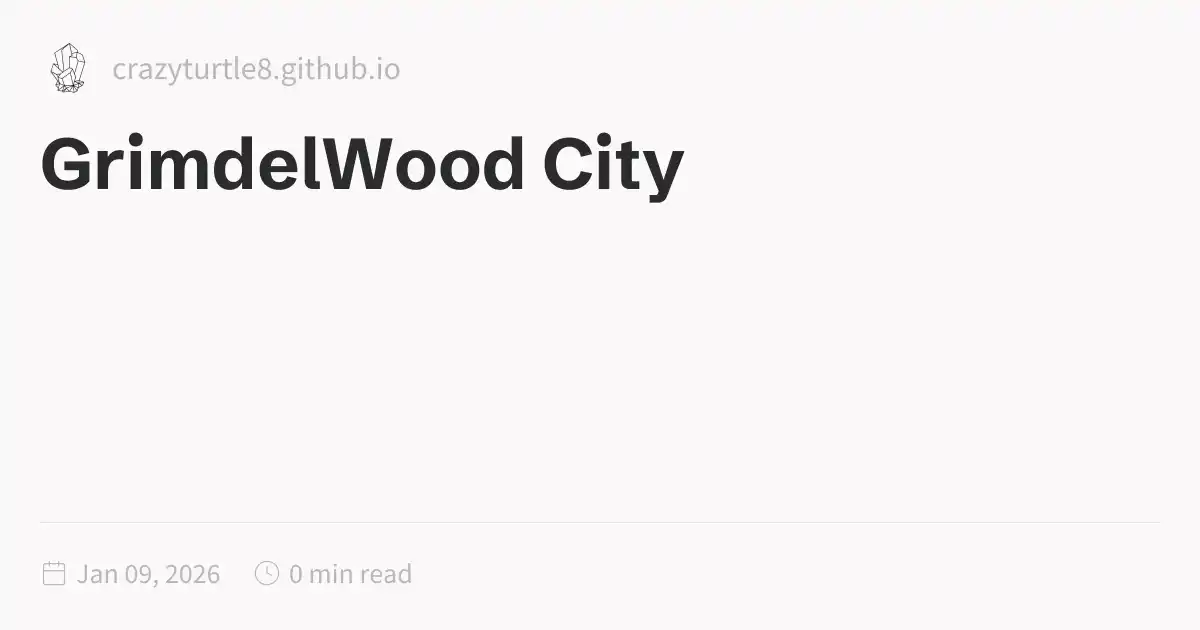
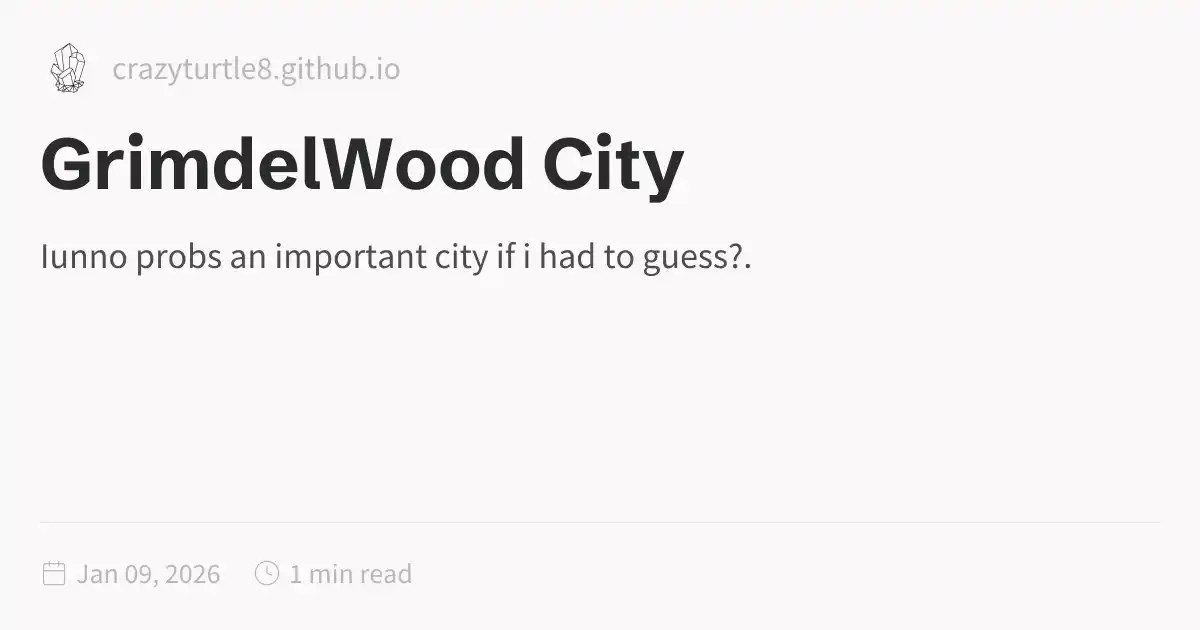
Update 2026-01-09

Changed region(s): [[0.0308, 0.3921, 0.6167, 0.4524]]

diff --git a/DnD/CAMPAIN/World/Country/Cities--and--Towns/GrimdelWood-City.html b/DnD/CAMPAIN/World/Country/Cities--and--Towns/GrimdelWood-City.html
@@ -1,5 +1,5 @@
 <!DOCTYPE html>
-<html lang="en" dir="ltr"><head><title>GrimdelWood City</title><meta charset="utf-8"/><link rel="preconnect" href="https://fonts.googleapis.com"/><link rel="preconnect" href="https://fonts.gstatic.com"/><link rel="stylesheet" href="https://fonts.googleapis.com/css2?family=Schibsted Grotesk:wght@400;700&amp;family=Source Sans Pro:ital,wght@0,400;0,600;1,400;1,600&amp;family=IBM Plex Mono:wght@400;600&amp;display=swap"/><link rel="preconnect" href="https://cdnjs.cloudflare.com" crossorigin="anonymous"/><meta name="viewport" content="width=device-width, initial-scale=1.0"/><meta name="og:site_name" content="Quartz 4"/><meta property="og:title" content="GrimdelWood City"/><meta property="og:type" content="website"/><meta name="twitter:card" content="summary_large_image"/><meta name="twitter:title" content="GrimdelWood City"/><meta name="twitter:description" content/><meta property="og:description" content/><meta property="og:image:alt" content/><meta property="twitter:domain" content="crazyturtle8.github.io"/><meta property="og:url" content="https://crazyturtle8.github.io/DnD/CAMPAIN/World/Country/Cities--and--Towns/GrimdelWood-City"/><meta property="twitter:url" content="https://crazyturtle8.github.io/DnD/CAMPAIN/World/Country/Cities--and--Towns/GrimdelWood-City"/><link rel="icon" href="../../../../../static/icon.png"/><meta name="description" content/><meta name="generator" content="Quartz"/><link href="../../../../../index.css" rel="stylesheet" type="text/css" data-persist="true"/><style>.expand-button {
+<html lang="en" dir="ltr"><head><title>GrimdelWood City</title><meta charset="utf-8"/><link rel="preconnect" href="https://fonts.googleapis.com"/><link rel="preconnect" href="https://fonts.gstatic.com"/><link rel="stylesheet" href="https://fonts.googleapis.com/css2?family=Schibsted Grotesk:wght@400;700&amp;family=Source Sans Pro:ital,wght@0,400;0,600;1,400;1,600&amp;family=IBM Plex Mono:wght@400;600&amp;display=swap"/><link rel="preconnect" href="https://cdnjs.cloudflare.com" crossorigin="anonymous"/><meta name="viewport" content="width=device-width, initial-scale=1.0"/><meta name="og:site_name" content="Quartz 4"/><meta property="og:title" content="GrimdelWood City"/><meta property="og:type" content="website"/><meta name="twitter:card" content="summary_large_image"/><meta name="twitter:title" content="GrimdelWood City"/><meta name="twitter:description" content="Iunno probs an important city if i had to guess?."/><meta property="og:description" content="Iunno probs an important city if i had to guess?."/><meta property="og:image:alt" content="Iunno probs an important city if i had to guess?."/><meta property="twitter:domain" content="crazyturtle8.github.io"/><meta property="og:url" content="https://crazyturtle8.github.io/DnD/CAMPAIN/World/Country/Cities--and--Towns/GrimdelWood-City"/><meta property="twitter:url" content="https://crazyturtle8.github.io/DnD/CAMPAIN/World/Country/Cities--and--Towns/GrimdelWood-City"/><link rel="icon" href="../../../../../static/icon.png"/><meta name="description" content="Iunno probs an important city if i had to guess?."/><meta name="generator" content="Quartz"/><link href="../../../../../index.css" rel="stylesheet" type="text/css" data-persist="true"/><style>.expand-button {
   position: absolute;
   display: flex;
   float: right;
@@ -115,7 +115,7 @@ pre:hover > .expand-button {
   padding: 0 12px;
   font-size: 14px;
 }
[2 lines of base64/hex data omitted]
                 s-3.542,0.634-4.898,1.688l-7.669-7.669C16.785,10.424,17,9.74,17,9c0-2.206-1.794-4-4-4S9,6.794,9,9s1.794,4,4,4
                 c0.74,0,1.424-0.215,2.019-0.567l7.669,7.669C21.634,21.458,21,23.154,21,25s0.634,3.542,1.688,4.897L10.024,42.562
                 C8.958,41.595,7.549,41,6,41c-3.309,0-6,2.691-6,6s2.691,6,6,6s6-2.691,6-6c0-1.035-0.263-2.009-0.726-2.86l12.829-12.829

diff --git a/DnD/CAMPAIN/World/index.html b/DnD/CAMPAIN/World/index.html
@@ -115,6 +115,6 @@ pre:hover > .expand-button {
   padding: 0 12px;
   font-size: 14px;
 }
[2 lines of base64/hex data omitted]
 </script><script type="module" data-persist="true">function E(a,e){if(!a)return;function t(o){o.target===this&&(o.preventDefault(),o.stopPropagation(),e())}function n(o){o.key.startsWith("Esc")&&(o.preventDefault(),e())}a?.addEventListener("click",t),window.addCleanup(()=>a?.removeEventListener("click",t)),document.addEventListener("keydown",n),window.addCleanup(()=>document.removeEventListener("keydown",n))}function f(a){for(;a.firstChild;)a.removeChild(a.firstChild)}var m=class{constructor(e,t){this.container=e;this.content=t;this.setupEventListeners(),this.setupNavigationControls(),this.resetTransform()}isDragging=!1;startPan={x:0,y:0};currentPan={x:0,y:0};scale=1;MIN_SCALE=.5;MAX_SCALE=3;cleanups=[];setupEventListeners(){let e=this.onMouseDown.bind(this),t=this.onMouseMove.bind(this),n=this.onMouseUp.bind(this),o=this.onTouchStart.bind(this),r=this.onTouchMove.bind(this),i=this.onTouchEnd.bind(this),s=this.resetTransform.bind(this);this.container.addEventListener("mousedown",e),document.addEventListener("mousemove",t),document.addEventListener("mouseup",n),this.container.addEventListener("touchstart",o,{passive:!1}),document.addEventListener("touchmove",r,{passive:!1}),document.addEventListener("touchend",i),window.addEventListener("resize",s),this.cleanups.push(()=>this.container.removeEventListener("mousedown",e),()=>document.removeEventListener("mousemove",t),()=>document.removeEventListener("mouseup",n),()=>this.container.removeEventListener("touchstart",o),()=>document.removeEventListener("touchmove",r),()=>document.removeEventListener("touchend",i),()=>window.removeEventListener("resize",s))}cleanup(){for(let e of this.cleanups)e()}setupNavigationControls(){let e=document.createElement("div");e.className="mermaid-controls";let t=this.createButton("+",()=>this.zoom(.1)),n=this.createButton("-",()=>this.zoom(-.1)),o=this.createButton("Reset",()=>this.resetTransform());e.appendChild(n),e.appendChild(o),e.appendChild(t),this.container.appendChild(e)}createButton(e,t){let n=document.createElement("button");return n.textContent=e,n.className="mermaid-control-button",n.addEventListener("click",t),window.addCleanup(()=>n.removeEventListener("click",t)),n}onMouseDown(e){e.button===0&&(this.isDragging=!0,this.startPan={x:e.clientX-this.currentPan.x,y:e.clientY-this.currentPan.y},this.container.style.cursor="grabbing")}onMouseMove(e){this.isDragging&&(e.preventDefault(),this.currentPan={x:e.clientX-this.startPan.x,y:e.clientY-this.startPan.y},this.updateTransform())}onMouseUp(){this.isDragging=!1,this.container.style.cursor="grab"}onTouchStart(e){if(e.touches.length!==1)return;this.isDragging=!0;let t=e.touches[0];this.startPan={x:t.clientX-this.currentPan.x,y:t.clientY-this.currentPan.y}}onTouchMove(e){if(!this.isDragging||e.touches.length!==1)return;e.preventDefault();let t=e.touches[0];this.currentPan={x:t.clientX-this.startPan.x,y:t.clientY-this.startPan.y},this.updateTransform()}onTouchEnd(){this.isDragging=!1}zoom(e){let t=Math.min(Math.max(this.scale+e,this.MIN_SCALE),this.MAX_SCALE),n=this.content.getBoundingClientRect(),o=n.width/2,r=n.height/2,i=t-this.scale;this.currentPan.x-=o*i,this.currentPan.y-=r*i,this.scale=t,this.updateTransform()}updateTransform(){this.content.style.transform=`translate(${this.currentPan.x}px, ${this.currentPan.y}px) scale(${this.scale})`}resetTransform(){let t=this.content.querySelector("svg").getBoundingClientRect(),n=t.width/this.scale,o=t.height/this.scale;this.scale=1,this.currentPan={x:(this.container.clientWidth-n)/2,y:(this.container.clientHeight-o)/2},this.updateTransform()}},T=["--secondary","--tertiary","--gray","--light","--lightgray","--highlight","--dark","--darkgray","--codeFont"],y;document.addEventListener("nav",async()=>{let e=document.querySelector(".center").querySelectorAll("code.mermaid");if(e.length===0)return;y||=await import("https://cdnjs.cloudflare.com/ajax/libs/mermaid/11.4.0/mermaid.esm.min.mjs");let t=y.default,n=new WeakMap;for(let r of e)n.set(r,r.innerText);async function o(){for(let s of e){s.removeAttribute("data-processed");let c=n.get(s);c&&(s.innerHTML=c)}let r=T.reduce((s,c)=>(s[c]=window.getComputedStyle(document.documentElement).getPropertyValue(c),s),{}),i=document.documentElement.getAttribute("saved-theme")==="dark";t.initialize({startOnLoad:!1,securityLevel:"loose",theme:i?"dark":"base",themeVariables:{fontFamily:r["--codeFont"],primaryColor:r["--light"],primaryTextColor:r["--darkgray"],primaryBorderColor:r["--tertiary"],lineColor:r["--darkgray"],secondaryColor:r["--secondary"],tertiaryColor:r["--tertiary"],clusterBkg:r["--light"],edgeLabelBackground:r["--highlight"]}}),await t.run({nodes:e})}await o(),document.addEventListener("themechange",o),window.addCleanup(()=>document.removeEventListener("themechange",o));for(let r=0;r<e.length;r++){let v=function(){let g=l.querySelector("#mermaid-space"),h=l.querySelector(".mermaid-content");if(!h)return;f(h);let w=i.querySelector("svg").cloneNode(!0);h.appendChild(w),l.classList.add("active"),g.style.cursor="grab",u=new m(g,h)},M=function(){l.classList.remove("active"),u?.cleanup(),u=null},i=e[r],s=i.parentElement,c=s.querySelector(".clipboard-button"),d=s.querySelector(".expand-button"),p=window.getComputedStyle(c),L=c.offsetWidth+parseFloat(p.marginLeft||"0")+parseFloat(p.marginRight||"0");d.style.right=`calc(${L}px + 0.3rem)`,s.prepend(d);let l=s.querySelector("#mermaid-container");if(!l)return;let u=null;d.addEventListener("click",v),E(l,M),window.addCleanup(()=>{u?.cleanup(),d.removeEventListener("click",v)})}});
 </script><script src="https://cdn.jsdelivr.net/npm/katex@0.16.11/dist/contrib/copy-tex.min.js" type="application/javascript" data-persist="true"></script><script src="../../../postscript.js" type="module" data-persist="true"></script></html>

diff --git a/DnD/index.html b/DnD/index.html
@@ -115,6 +115,6 @@ pre:hover > .expand-button {
   padding: 0 12px;
   font-size: 14px;
 }
[2 lines of base64/hex data omitted]
 </script><script type="module" data-persist="true">function E(a,e){if(!a)return;function t(o){o.target===this&&(o.preventDefault(),o.stopPropagation(),e())}function n(o){o.key.startsWith("Esc")&&(o.preventDefault(),e())}a?.addEventListener("click",t),window.addCleanup(()=>a?.removeEventListener("click",t)),document.addEventListener("keydown",n),window.addCleanup(()=>document.removeEventListener("keydown",n))}function f(a){for(;a.firstChild;)a.removeChild(a.firstChild)}var m=class{constructor(e,t){this.container=e;this.content=t;this.setupEventListeners(),this.setupNavigationControls(),this.resetTransform()}isDragging=!1;startPan={x:0,y:0};currentPan={x:0,y:0};scale=1;MIN_SCALE=.5;MAX_SCALE=3;cleanups=[];setupEventListeners(){let e=this.onMouseDown.bind(this),t=this.onMouseMove.bind(this),n=this.onMouseUp.bind(this),o=this.onTouchStart.bind(this),r=this.onTouchMove.bind(this),i=this.onTouchEnd.bind(this),s=this.resetTransform.bind(this);this.container.addEventListener("mousedown",e),document.addEventListener("mousemove",t),document.addEventListener("mouseup",n),this.container.addEventListener("touchstart",o,{passive:!1}),document.addEventListener("touchmove",r,{passive:!1}),document.addEventListener("touchend",i),window.addEventListener("resize",s),this.cleanups.push(()=>this.container.removeEventListener("mousedown",e),()=>document.removeEventListener("mousemove",t),()=>document.removeEventListener("mouseup",n),()=>this.container.removeEventListener("touchstart",o),()=>document.removeEventListener("touchmove",r),()=>document.removeEventListener("touchend",i),()=>window.removeEventListener("resize",s))}cleanup(){for(let e of this.cleanups)e()}setupNavigationControls(){let e=document.createElement("div");e.className="mermaid-controls";let t=this.createButton("+",()=>this.zoom(.1)),n=this.createButton("-",()=>this.zoom(-.1)),o=this.createButton("Reset",()=>this.resetTransform());e.appendChild(n),e.appendChild(o),e.appendChild(t),this.container.appendChild(e)}createButton(e,t){let n=document.createElement("button");return n.textContent=e,n.className="mermaid-control-button",n.addEventListener("click",t),window.addCleanup(()=>n.removeEventListener("click",t)),n}onMouseDown(e){e.button===0&&(this.isDragging=!0,this.startPan={x:e.clientX-this.currentPan.x,y:e.clientY-this.currentPan.y},this.container.style.cursor="grabbing")}onMouseMove(e){this.isDragging&&(e.preventDefault(),this.currentPan={x:e.clientX-this.startPan.x,y:e.clientY-this.startPan.y},this.updateTransform())}onMouseUp(){this.isDragging=!1,this.container.style.cursor="grab"}onTouchStart(e){if(e.touches.length!==1)return;this.isDragging=!0;let t=e.touches[0];this.startPan={x:t.clientX-this.currentPan.x,y:t.clientY-this.currentPan.y}}onTouchMove(e){if(!this.isDragging||e.touches.length!==1)return;e.preventDefault();let t=e.touches[0];this.currentPan={x:t.clientX-this.startPan.x,y:t.clientY-this.startPan.y},this.updateTransform()}onTouchEnd(){this.isDragging=!1}zoom(e){let t=Math.min(Math.max(this.scale+e,this.MIN_SCALE),this.MAX_SCALE),n=this.content.getBoundingClientRect(),o=n.width/2,r=n.height/2,i=t-this.scale;this.currentPan.x-=o*i,this.currentPan.y-=r*i,this.scale=t,this.updateTransform()}updateTransform(){this.content.style.transform=`translate(${this.currentPan.x}px, ${this.currentPan.y}px) scale(${this.scale})`}resetTransform(){let t=this.content.querySelector("svg").getBoundingClientRect(),n=t.width/this.scale,o=t.height/this.scale;this.scale=1,this.currentPan={x:(this.container.clientWidth-n)/2,y:(this.container.clientHeight-o)/2},this.updateTransform()}},T=["--secondary","--tertiary","--gray","--light","--lightgray","--highlight","--dark","--darkgray","--codeFont"],y;document.addEventListener("nav",async()=>{let e=document.querySelector(".center").querySelectorAll("code.mermaid");if(e.length===0)return;y||=await import("https://cdnjs.cloudflare.com/ajax/libs/mermaid/11.4.0/mermaid.esm.min.mjs");let t=y.default,n=new WeakMap;for(let r of e)n.set(r,r.innerText);async function o(){for(let s of e){s.removeAttribute("data-processed");let c=n.get(s);c&&(s.innerHTML=c)}let r=T.reduce((s,c)=>(s[c]=window.getComputedStyle(document.documentElement).getPropertyValue(c),s),{}),i=document.documentElement.getAttribute("saved-theme")==="dark";t.initialize({startOnLoad:!1,securityLevel:"loose",theme:i?"dark":"base",themeVariables:{fontFamily:r["--codeFont"],primaryColor:r["--light"],primaryTextColor:r["--darkgray"],primaryBorderColor:r["--tertiary"],lineColor:r["--darkgray"],secondaryColor:r["--secondary"],tertiaryColor:r["--tertiary"],clusterBkg:r["--light"],edgeLabelBackground:r["--highlight"]}}),await t.run({nodes:e})}await o(),document.addEventListener("themechange",o),window.addCleanup(()=>document.removeEventListener("themechange",o));for(let r=0;r<e.length;r++){let v=function(){let g=l.querySelector("#mermaid-space"),h=l.querySelector(".mermaid-content");if(!h)return;f(h);let w=i.querySelector("svg").cloneNode(!0);h.appendChild(w),l.classList.add("active"),g.style.cursor="grab",u=new m(g,h)},M=function(){l.classList.remove("active"),u?.cleanup(),u=null},i=e[r],s=i.parentElement,c=s.querySelector(".clipboard-button"),d=s.querySelector(".expand-button"),p=window.getComputedStyle(c),L=c.offsetWidth+parseFloat(p.marginLeft||"0")+parseFloat(p.marginRight||"0");d.style.right=`calc(${L}px + 0.3rem)`,s.prepend(d);let l=s.querySelector("#mermaid-container");if(!l)return;let u=null;d.addEventListener("click",v),E(l,M),window.addCleanup(()=>{u?.cleanup(),d.removeEventListener("click",v)})}});
 </script><script src="https://cdn.jsdelivr.net/npm/katex@0.16.11/dist/contrib/copy-tex.min.js" type="application/javascript" data-persist="true"></script><script src="../postscript.js" type="module" data-persist="true"></script></html>
